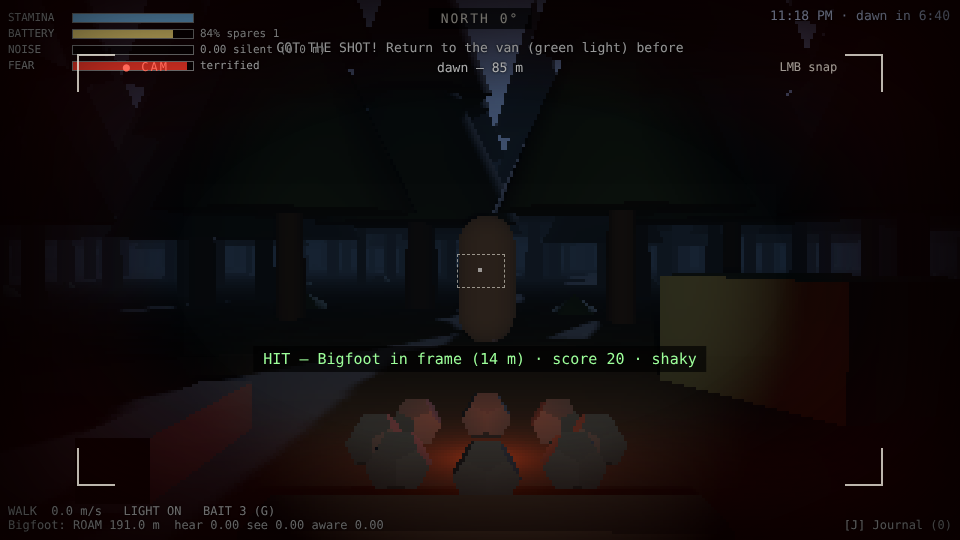
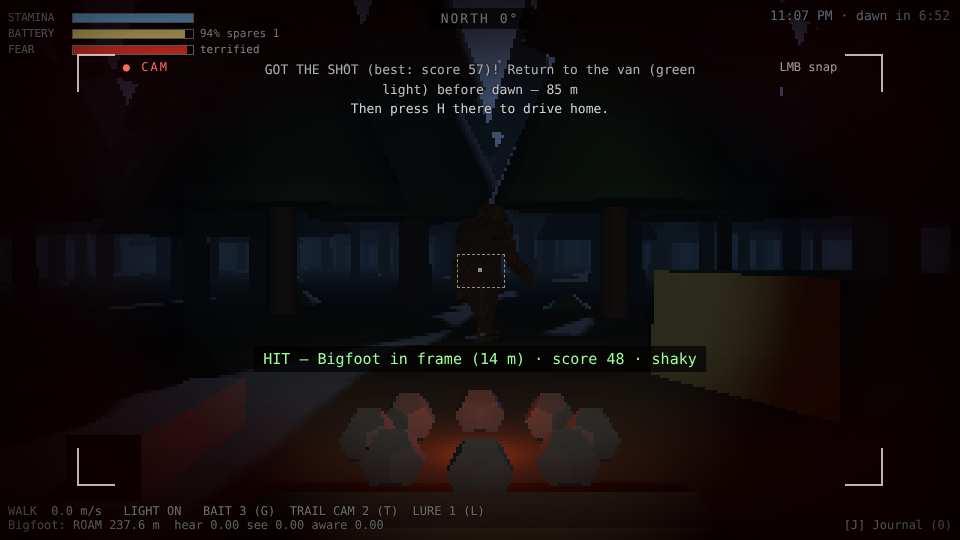
#25 follow-up: safe interiors, comfort sway, closer photos score more
Director answers: cabin/tent/van are safe interiors (fear drains fast, no
dark rise); on-screen fear sway halved (none with ?vr) while photo
steadiness uses the full shake; photo score adds a closeness factor.

Claude-Session: https://claude.ai/code/session_0163yRzLCrst6QKZAZ52itsT

diff --git a/src/hunt/fear.js b/src/hunt/fear.js
@@ -12,22 +12,27 @@ export const FEAR = {
   nearRise: 16,           // per second with a cryptid right next to you (scaled by closeness)
   torchFall: 2,           // per second with your torch on and nothing near
   lampFall: 9,            // per second standing in lamp/fire light
-  safeFall: 15,           // per second in the safe zone by the van
-  safeRadius: 8,
+  safeFall: 15,           // per second in a safe interior (van, cabin, tent)
+  safeRadius: 8,          // around the van (other safe zones carry their own radius)
   scareRange: 10,         // a cryptid coming this close is a jump scare...
   scareAmount: 25,
   boltScare: 12,          // ...and one bolting away nearby is a smaller one
   scareCooldown: 20,      // seconds before the same cryptid can jump-scare you again
   swayStart: 35,          // fear above this sways the view
-  swayMaxDeg: 3.2,        // sway amplitude at 100 fear (degrees)
+  swayMaxDeg: 3.2,        // shake amplitude at 100 fear (degrees) — what the photo feels
+  screenSway: 0.5,        // share of that shake you actually see (comfort; 0 in VR)
 };
 
 export class Fear {
   /**
    * getThreats: () => [{ id, x, z, state? }] — cryptids that can frighten you.
-   * safeZone: { x, z } (the extraction point). scene: scanned for lamps (PointLights).
+   * safeZone: { x, z } (the extraction point). safeZones: [{ x, z, r, name }] safe interiors
+   * (cabin, tent). screenSway: share of the shake shown on screen (0 for VR).
+   * scene: scanned for lamps (PointLights).
    */
-  constructor({ scene, player, flashlight, camera, getThreats, safeZone }) {
+  constructor({ scene, player, flashlight, camera, getThreats, safeZone, safeZones = [], screenSway = FEAR.screenSway }) {
+    this.safeZones = safeZones;
+    this.screenSway = screenSway;
     this.scene = scene;
     this.player = player;
     this.flashlight = flashlight;
@@ -72,7 +77,8 @@ export class Fear {
 
   inSafeZone() {
     const p = this.player.position, s = this.safeZone;
-    return !!s && Math.hypot(p.x - s.x, p.z - s.z) < FEAR.safeRadius;
+    if (s && Math.hypot(p.x - s.x, p.z - s.z) < FEAR.safeRadius) return true;
+    return this.safeZones.some((z) => Math.hypot(p.x - z.x, p.z - z.z) < z.r);
   }
 
   /** Spike fear right now (other systems can call this: wood-knocks, roars, ...). */
@@ -104,7 +110,7 @@ export class Fear {
     }
 
     const lamp = this.lampLight(), torch = this.torchOn(), safe = this.inSafeZone();
-    const dark = !torch && lamp < 0.3;
+    const dark = !torch && lamp < 0.3 && !safe; // inside a tent/cabin/van the dark isn't frightening
     if (dark) { rate += FEAR.darkRise; reasons.push('dark'); }
     if (near > 0) { rate += FEAR.nearRise * near * near; reasons.push('cryptid near'); }
     if (near === 0) {
@@ -117,7 +123,8 @@ export class Fear {
     this.reasons = reasons;
   }
 
-  /** Add fear sway on top of the player's look (call after player.update each frame). */
+  /** Fear shake (call after player.update each frame). The full shake blurs photos (swaySpeed);
+   *  only screenSway of it is added to the view, to keep it comfortable (none in VR). */
   applySway(dt) {
     const k = Math.max(0, (this.value - FEAR.swayStart) / (100 - FEAR.swayStart));
     const amp = THREE.MathUtils.degToRad(FEAR.swayMaxDeg) * k * k;
@@ -127,7 +134,7 @@ export class Fear {
     const pitch = amp * (0.6 * Math.sin(t * 1.9 + 0.8) + 0.4 * Math.sin(t * 8.3) * Math.sin(t * 1.1 + 2));
     if (dt > 0) this.swaySpeed = THREE.MathUtils.radToDeg(Math.hypot(yaw - this.swayYaw, pitch - this.swayPitch)) / dt;
     this.swayYaw = yaw; this.swayPitch = pitch;
-    this.camera.rotation.y += yaw;
-    this.camera.rotation.x += pitch;
+    this.camera.rotation.y += yaw * this.screenSway;
+    this.camera.rotation.x += pitch * this.screenSway;
   }
 }

diff --git a/src/hunt/photoCamera.js b/src/hunt/photoCamera.js
@@ -206,14 +206,17 @@ export class PhotoCamera {
 /**
  * Placeholder photo score (0-100) until the evidence-scoring task lands:
  *   framing   — how much of the subject shows and how centred it is
+ *   closeness — nearer shots are worth more
  *   steadiness — a shaking camera (fear) blurs the shot: 1 when still, down to 0.2
  */
 export function photoScore(r, shakeDegPerSec) {
   const steadiness = Math.max(0.2, 1 - shakeDegPerSec / 8);
   if (!r.subject) return { score: 0, framing: 0, steadiness };
   const centred = 1 - Math.min(1, r.offCentre ?? 0);
+  // More of the creature, more centred and closer are all worth more.
   const framing = (r.visible / r.samples) * (0.6 + 0.4 * centred);
-  return { score: Math.round(100 * framing * steadiness), framing, steadiness };
+  const closeness = Math.max(0.3, Math.min(1, 1 - (r.distance - 8) / 60)); // 1 within 8 m, 0.3 by ~50 m
+  return { score: Math.round(100 * framing * closeness * steadiness), framing, closeness, steadiness };
 }
 
 // Points on the subject to test: a standing column (feet, knees, chest, head, shoulders)

diff --git a/src/maps/forest.js b/src/maps/forest.js
@@ -364,6 +364,11 @@ export function buildForestMap(scene) {
     },
     spawns: { bigfoot: { x: L.hollow.x, z: L.hollow.z } },
     landmarks: { ...L },
+    // Safe interiors: fear drains fast in here (the van is added by the hunt).
+    safeZones: [
+      { x: L.cabin.x, z: L.cabin.z, r: 3.6, name: 'cabin' },
+      { x: L.campsite.x + 4, z: L.campsite.z - 3, r: 2.2, name: 'tent' },
+    ],
     // Night lighting baseline (see maps/nightLighting.js): moon low in the north behind the ridge,
     // so the lookout, ridge and pines read as silhouettes against a glowing horizon.
     environment: { background: 0x070a0d, fog: { color: 0x0b1014, near: 10, far: 60 }, lightLevel: 0.05, night: {} },

diff --git a/src/main.js b/src/main.js
@@ -111,7 +111,8 @@ flashlight.spares = packed.spareBatteries;
 const audioLures = new AudioLures({ scene, player, input, notify: (m) => photo?.toast(m) });
 // Fear: rises in the dark, near cryptids and on scares; light and the van calm you; high fear sways your aim.
 const fear = new Fear({
-  scene, player, flashlight, camera, safeZone: HUNT.exit,
+  scene, player, flashlight, camera, safeZone: HUNT.exit, safeZones: map.safeZones ?? [],
+  screenSway: new URLSearchParams(location.search).has('vr') ? 0 : undefined, // ?vr: no on-screen shake
   getThreats: () => [
     ...cryptids.cryptids.map((c) => ({ id: c.profile.name, x: c.agent.x, z: c.agent.z, state: c.state })),
     ...(sandbox ? [

diff --git a/.ballast/reports/t25.md b/.ballast/reports/t25.md
@@ -5,6 +5,7 @@ STATUS: DONE
 - Verified (`npm run check:t25`): dark 0→40 in 10 s; torch 50→30; cabin lamplight 50→5 in 5 s; van 60→15 in 3 s; Bigfoot 14 m away raises fear with the torch on; a sudden close cryptid spikes 10→35; sway 0° calm vs 3.4° terrified; the same photo of Bigfoot scored 99 every time calm vs an average of 35 terrified (real mouse clicks, 6 shots each). All other checks pass. Captures in `.ballast/media/t25/`.
 - Assumptions: the photo score is a stand-in until evidence scoring is built (it only covers framing and steadiness). Other systems can call a scare (e.g. the wood-knock task) to spike fear. Losing photos when caught is the next task (#26). Fear doesn't hurt you on its own.
 - PR: https://github.com/nsmith-gd/cryptidhunter/pull/24
+- Follow-up from the director's answers: the cabin, the campsite tent and the van are now safe interiors where fear drains fast (even in the dark); the torch still calms you, but much more slowly than lamps or fire. You now see only half the fear shake on screen, and with `?vr` none at all, while photos still feel the full shake and score low. Photos are also worth more the closer you are (on top of more of the creature showing and better centring). PR: https://github.com/nsmith-gd/cryptidhunter/pulls?q=head%3Aballast%2Ft25b-nathaniel2
 
 ## Questions
 ### Should your torch alone calm you down, or only real light (lamps, fire, the van)?
